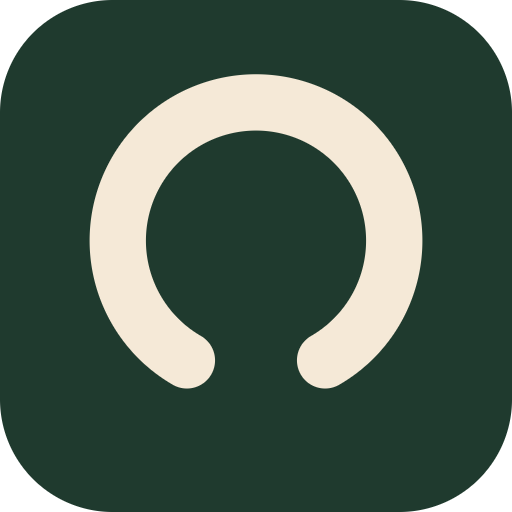
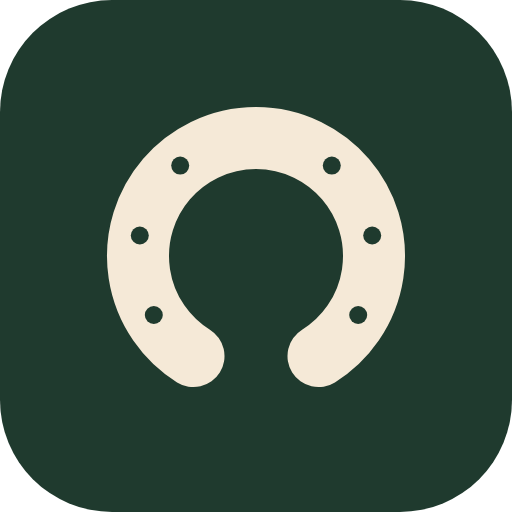
Nomme l'application Licol et lui donne une véritable identité
Nom : « Cavalier » était le mot du métier, pas une marque — il désigne
l'utilisateur, et se confond avec le type de compte du même nom dans l'écran
d'inscription. « Licol » est libre côté applications, tient en cinq lettres,
et renvoie à la pièce qui relie le cavalier à son cheval : c'est exactement
ce que fait le produit, relier les co-cavaliers d'une demi-pension et un club
à ses cavaliers. Il se démarque aussi du préfixe « Equi- » qui sature le
secteur (Equitazone, Equilab, Equisense).

Logo : fer à cheval en SVG, arc ouvert à branches arrondies, avec ses six
étampures — ce sont elles qui le font lire comme un fer plutôt que comme une
simple arche. Deux versions, comme dans toute identité qui tient à petite
taille : public/logo.svg avec les étampures pour l'icône d'application, et
public/favicon.svg sans les trous, qui se referment en bouillie à 16 px.

Les PNG de la PWA sont désormais rasterisés depuis le SVG plutôt que peints
pixel par pixel par un encodeur PNG maison. Le script generer-icones.mjs
passe par Chromium, installable à la demande : ce n'est pas une étape de
build, seulement un outil de design.

Le renommage épargne les occurrences où « cavalier » désigne le rôle et non
la marque — notamment le choix du type de compte à l'inscription.

diff --git a/index.html b/index.html
@@ -6,15 +6,15 @@
       name="viewport"
       content="width=device-width, initial-scale=1, viewport-fit=cover, maximum-scale=1"
     />
-    <title>Cavalier</title>
-    <meta name="description" content="Gérez vos chevaux, votre demi-pension et le suivi santé de votre cavalerie." />
+    <title>Licol</title>
+    <meta name="description" content="Licol — le carnet partagé de votre cheval : planning de demi-pension, séances et suivi santé." />
     <meta name="theme-color" content="#1f3a2e" />
     <link rel="manifest" href="/manifest.webmanifest" />
-    <link rel="icon" type="image/svg+xml" href="/icone.svg" />
+    <link rel="icon" type="image/svg+xml" href="/favicon.svg" />
     <link rel="apple-touch-icon" href="/icone-192.png" />
     <meta name="apple-mobile-web-app-capable" content="yes" />
     <meta name="apple-mobile-web-app-status-bar-style" content="black-translucent" />
-    <meta name="apple-mobile-web-app-title" content="Cavalier" />
+    <meta name="apple-mobile-web-app-title" content="Licol" />
   </head>
   <body>
     <div id="root"></div>

diff --git a/src/pages/onglets/OngletFiche.jsx b/src/pages/onglets/OngletFiche.jsx
@@ -236,8 +236,8 @@ export default function OngletFiche({ cheval, cavaliers, estGestionnaire, rechar
               className="bouton"
               onClick={() =>
                 navigator.share({
-                  title: 'Cavalier',
-                  text: `Rejoins ${cheval.nom} sur Cavalier avec le code ${code}`,
+                  title: 'Licol',
+                  text: `Rejoins ${cheval.nom} sur Licol avec le code ${code}`,
                 })
               }
             >

diff --git a/src/pages/Connexion.jsx b/src/pages/Connexion.jsx
@@ -29,9 +29,9 @@ export default function Connexion() {
   return (
     <div className="ecran-auth">
       <div className="marque">
-        <img src="/icone.svg" alt="" />
-        <h1>Cavalier</h1>
-        <p>Vos chevaux, votre demi-pension, leur santé.</p>
+        <img src="/logo.svg" alt="" />
+        <h1>Licol</h1>
+        <p>Le carnet partagé de votre cheval.</p>
       </div>
 
       <form onSubmit={surSoumission}>

diff --git a/src/pages/FichePublique.jsx b/src/pages/FichePublique.jsx
@@ -134,7 +134,7 @@ export default function FichePublique() {
           )}
 
           <footer className="document-pied doux">
-            Partagé depuis Cavalier le {formatDate(fiche.genere_le)}. Ce lien peut
+            Partagé depuis Licol le {formatDate(fiche.genere_le)}. Ce lien peut
             être révoqué à tout moment par le propriétaire du cheval.
           </footer>
         </article>

diff --git a/src/pages/CarnetSante.jsx b/src/pages/CarnetSante.jsx
@@ -162,7 +162,7 @@ export default function CarnetSante() {
           )}
 
           <footer className="document-pied doux">
-            Document généré par Cavalier. Les montants et les informations des
+            Document généré par Licol. Les montants et les informations des
             cavaliers ne figurent pas dans ce carnet.
           </footer>
         </article>

diff --git a/src/pages/Inscription.jsx b/src/pages/Inscription.jsx
@@ -41,7 +41,7 @@ export default function Inscription() {
   return (
     <div className="ecran-auth">
       <div className="marque">
-        <img src="/icone.svg" alt="" />
+        <img src="/logo.svg" alt="" />
         <h1>Créer un compte</h1>
       </div>
 

diff --git a/README.md b/README.md
@@ -1,6 +1,18 @@
-# Cavalier
+# Licol
 
-Application web mobile-first pour les cavaliers et les clubs équestres.
+**Le carnet partagé de votre cheval.** Application web mobile-first pour les
+cavaliers et les clubs équestres.
+
+Le nom vient du licol, la pièce qui relie le cavalier à son cheval au
+quotidien — et c'est bien de lien qu'il s'agit ici : entre co-cavaliers d'une
+même demi-pension, et entre un club et ses cavaliers. Il se distingue aussi
+de la nomenclature dominante du secteur, largement construite sur le préfixe
+« Equi- ».
+
+L'identité tient dans deux fichiers : `public/logo.svg` (fer à cheval avec
+ses étampures, pour l'icône d'application) et `public/favicon.svg` (même fer,
+sans les trous, qui se refermeraient en bouillie à 16 px). Les PNG de la PWA
+se régénèrent avec `npm run icones`.
 
 - **Côté cavalier** : ses chevaux, le partage en demi-pension par code
   d'invitation, un calendrier partagé par cheval, un carnet de séances et

diff --git a/docs/modele-de-donnees.md b/docs/modele-de-donnees.md
@@ -1,4 +1,4 @@
-# Modèle de données — Cavalier V1
+# Modèle de données — Licol V1
 
 Base Postgres hébergée par Supabase, Row Level Security activée sur **toutes**
 les tables. L'authentification s'appuie sur `auth.users` (email + mot de passe,

diff --git a/docs/arborescence-ecrans.md b/docs/arborescence-ecrans.md
@@ -1,4 +1,4 @@
-# Arborescence des écrans — Cavalier V1
+# Arborescence des écrans — Licol V1
 
 Mobile-first : navigation par barre d'onglets en bas d'écran, 4 onglets max,
 différente selon le type de compte. Tout est en français.
